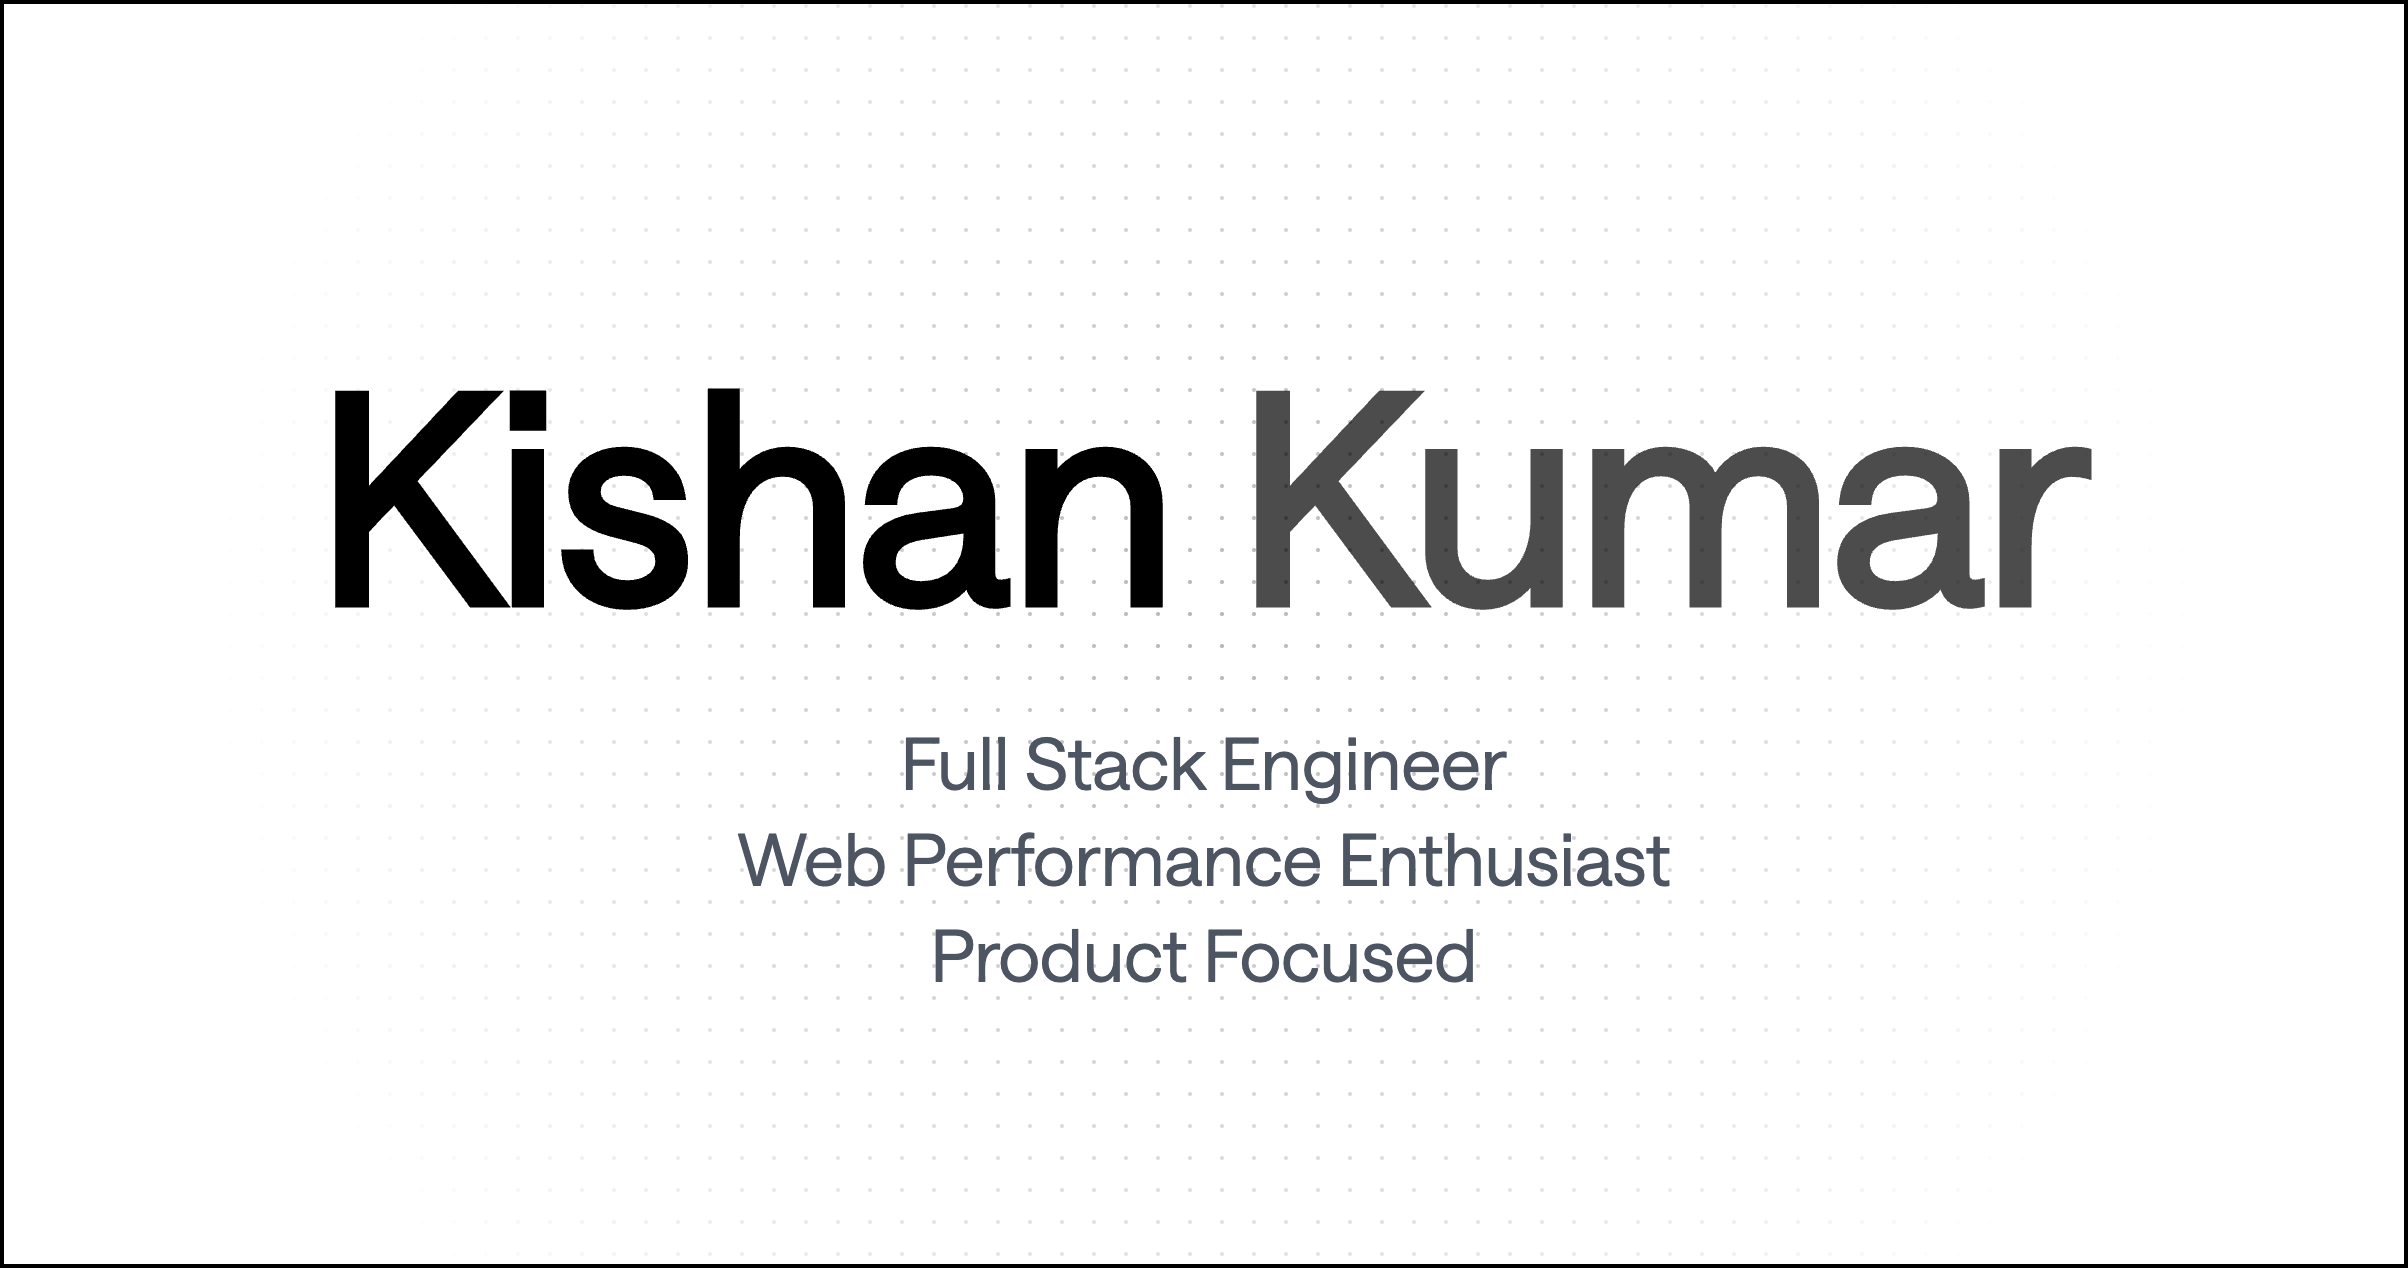
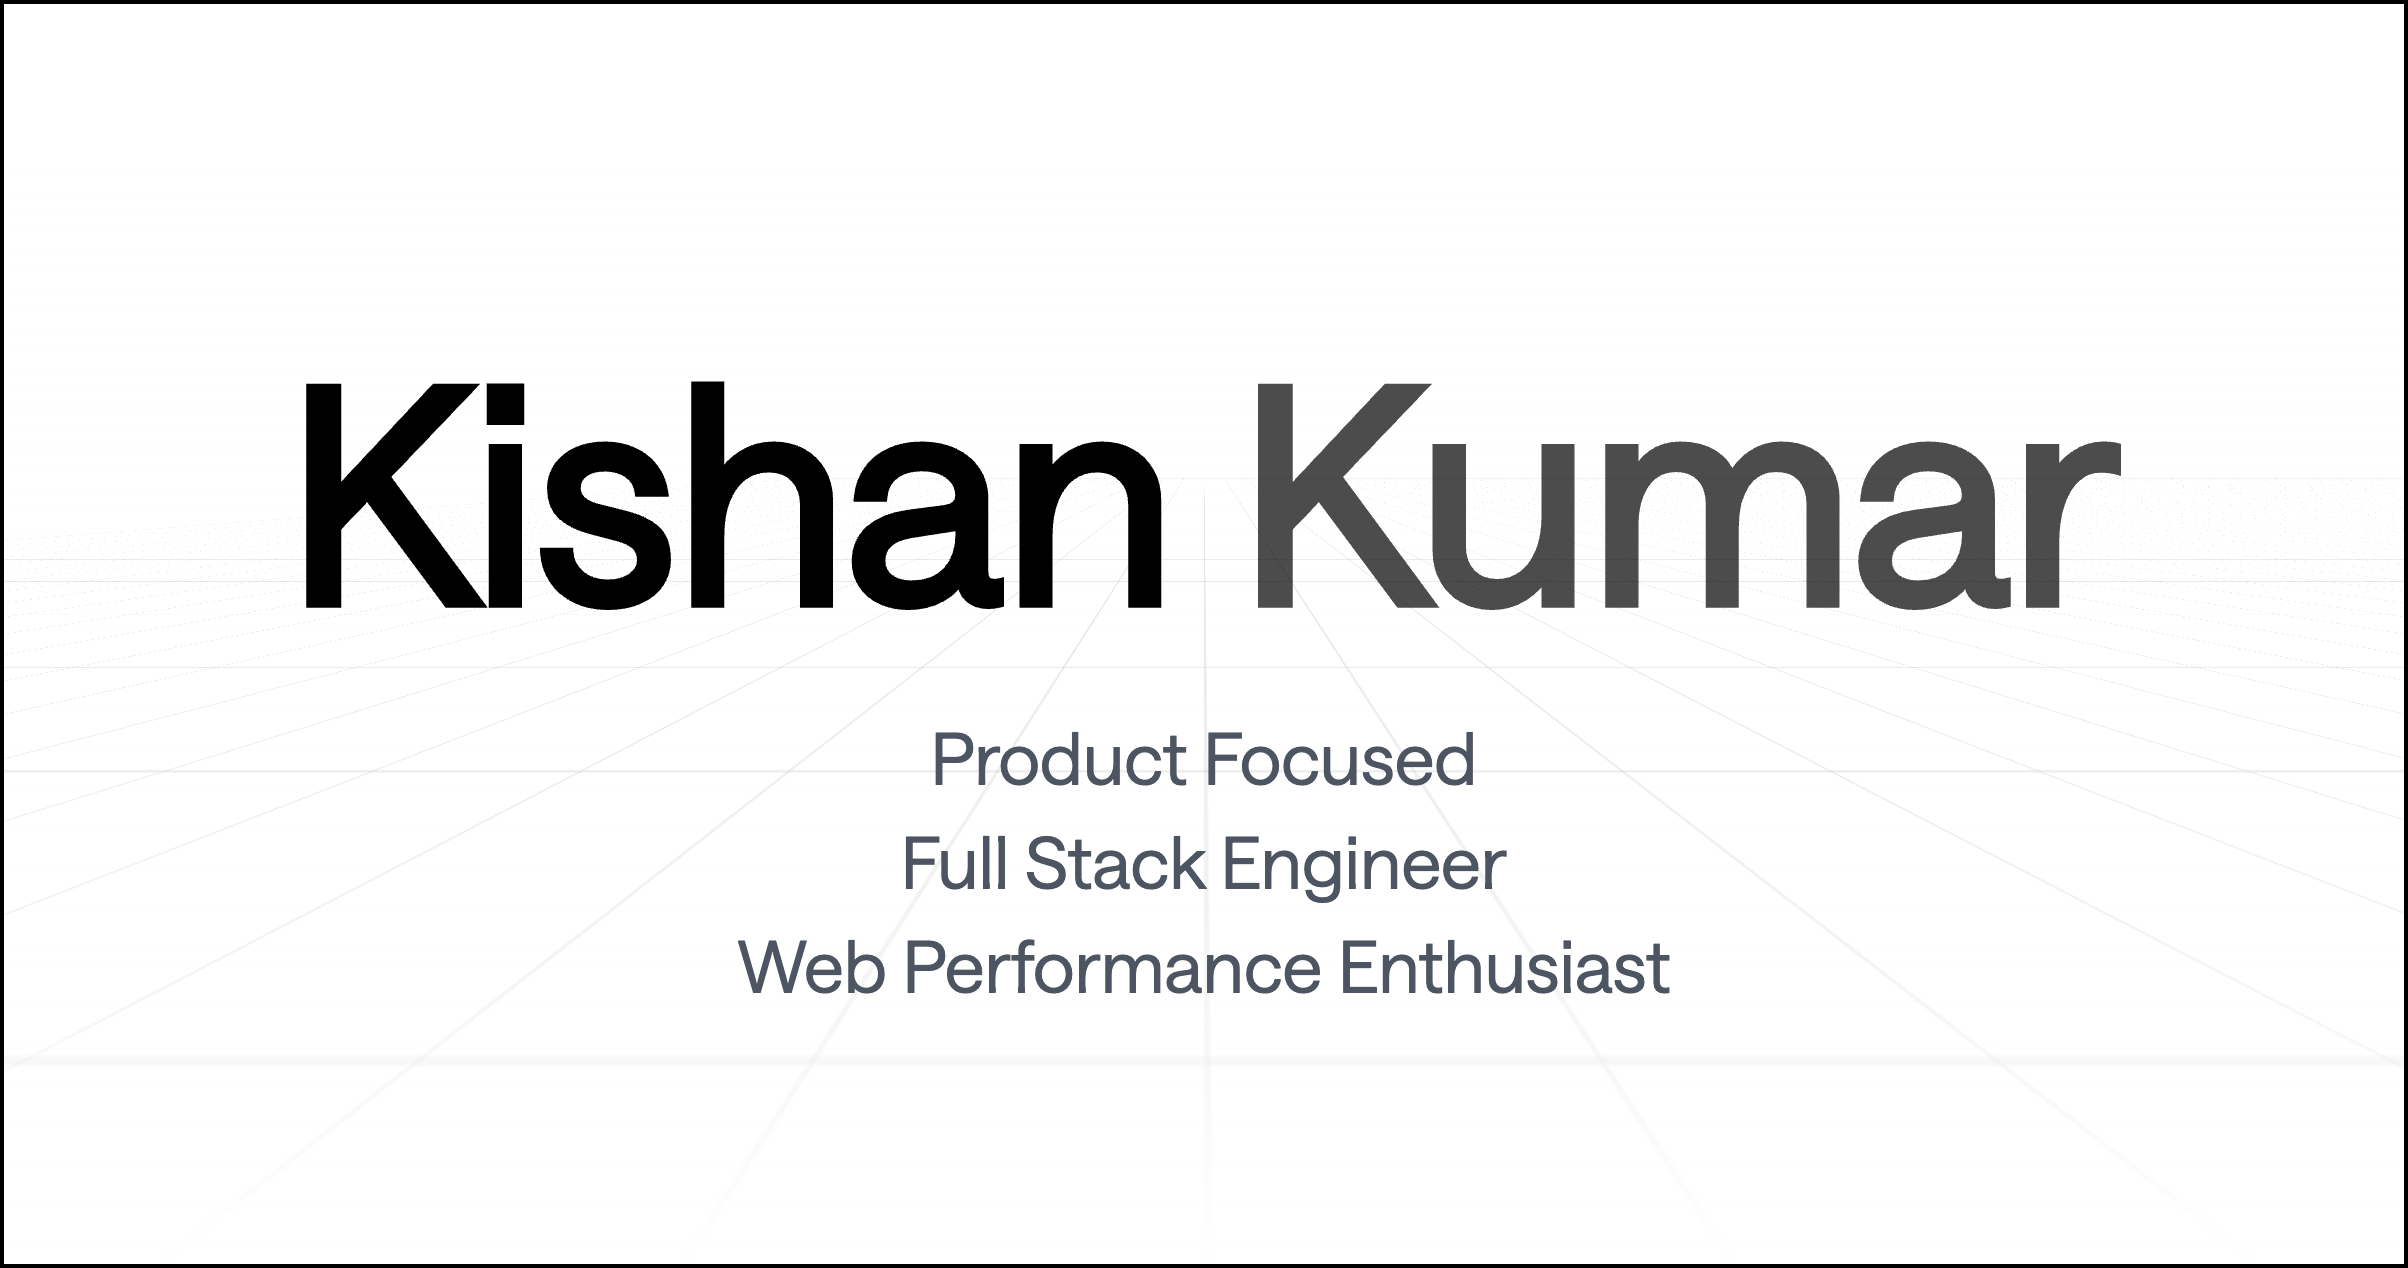
feat: improve og image

diff --git a/src/components/ui/retro-grid.tsx b/src/components/ui/retro-grid.tsx
@@ -1,0 +1,39 @@
+import { cn } from "@/lib/utils";
+
+export default function RetroGrid({
+  className,
+  angle = 65,
+}: {
+  className?: string;
+  angle?: number;
+}) {
+  return (
+    <div
+      className={cn(
+        "pointer-events-none absolute size-full overflow-hidden opacity-50 [perspective:200px]",
+        className,
+      )}
+      style={{ "--grid-angle": `${angle}deg` } as React.CSSProperties}
+    >
+      {/* Grid */}
+      <div className="absolute inset-0 [transform:rotateX(var(--grid-angle))]">
+        <div
+          className={cn(
+            "animate-grid",
+
+            "[background-repeat:repeat] [background-size:60px_60px] [height:300vh] [inset:0%_0px] [margin-left:-50%] [transform-origin:100%_0_0] [width:600vw]",
+
+            // Light Styles
+            "[background-image:linear-gradient(to_right,rgba(0,0,0,0.3)_1px,transparent_0),linear-gradient(to_bottom,rgba(0,0,0,0.3)_1px,transparent_0)]",
+
+            // Dark styles
+            "dark:[background-image:linear-gradient(to_right,rgba(255,255,255,0.2)_1px,transparent_0),linear-gradient(to_bottom,rgba(255,255,255,0.2)_1px,transparent_0)]",
+          )}
+        />
+      </div>
+
+      {/* Background Gradient */}
+      <div className="absolute inset-0 bg-gradient-to-t from-white to-transparent to-90% dark:from-black" />
+    </div>
+  );
+}
